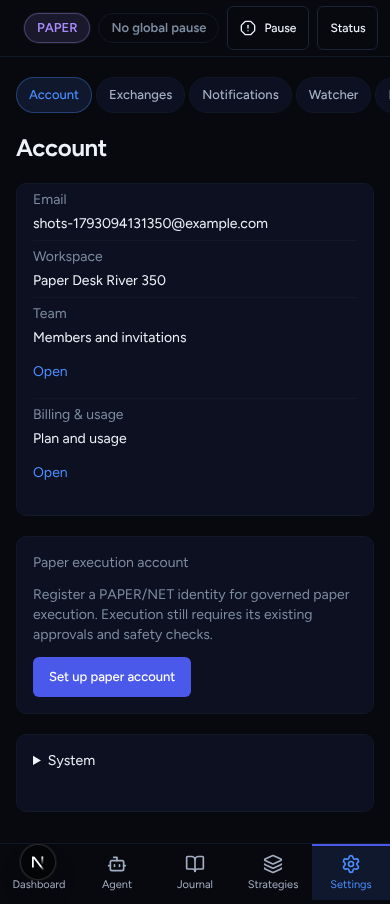
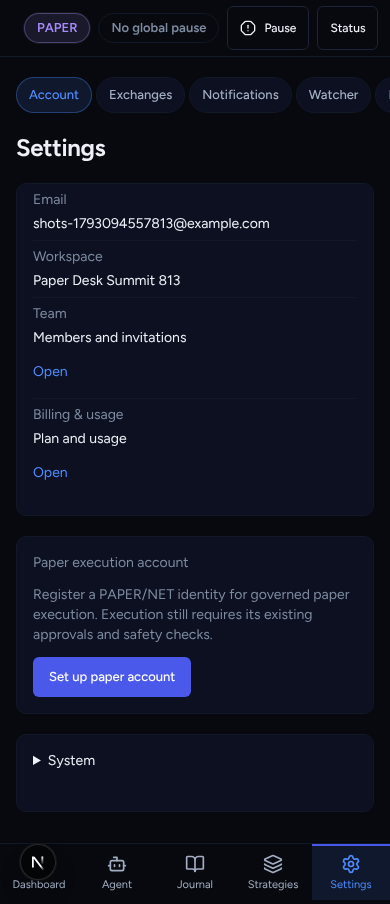
fix(settings): keep the Settings landing h1 matching its sidebar label (UI overhaul B2a)
Every primary destination's h1 matches its nav label (simplified-ui-smoke
checks this). The sub-nav marks the Account section.

Full-Backend: false

Claude-Session: https://claude.ai/code/session_01Vovj7V7QoBrr1tEWoBBSe7

Changed region(s): [[0.2769, 0.2168, 0.6769, 0.3407], [0.0308, 0.1549, 0.2769, 0.1858]]

diff --git a/frontend/src/app/(app)/settings/page.test.tsx b/frontend/src/app/(app)/settings/page.test.tsx
@@ -220,7 +220,8 @@ afterEach(() => {
 
 it("shows the Account section flat, with Team and Billing reachable and no link row", async () => {
   render(<SettingsPage />);
-  expect(screen.getByRole("heading", { name: "Account" })).toBeInTheDocument();
+  // The landing h1 matches the sidebar label; the sub-nav marks Account.
+  expect(screen.getByRole("heading", { level: 1, name: "Settings" })).toBeInTheDocument();
   expect(screen.getByText("owner@example.com")).toBeVisible();
   expect(screen.getByText("Alpha Org")).toBeVisible();
   expect(screen.getByRole("link", { name: "Team" })).toHaveAttribute("href", "/settings/team");

diff --git a/frontend/src/app/(app)/settings/page.tsx b/frontend/src/app/(app)/settings/page.tsx
@@ -47,7 +47,7 @@ function AccountSettings() {
   );
   return (
     <div className="page-sections [&_input:not([type=checkbox])]:text-base [&_select]:text-base lg:[&_input:not([type=checkbox])]:text-sm lg:[&_select]:text-sm" data-testid="settings-workspace">
-      <PageHeader title="Account" />
+      <PageHeader title="Settings" />
       <Card>
         <CardContent className="divide-y divide-border-subtle">
           <Row label="Email" value={user?.email ?? "Unavailable"} />

diff --git a/docs/agent-reports/ui-overhaul-b2a-settings-subnav.md b/docs/agent-reports/ui-overhaul-b2a-settings-subnav.md
@@ -17,7 +17,9 @@ Scope: frontend only. No backend, API schema, workflow or lockfile changes.
     contains `TelegramPolicyForm`.
   - `/settings/watcher`: watcher status, watchlist slots, coin strategies, worker
     runtime readout.
-- **Account (`/settings`).** The page is flat now: Email, Workspace, Team →,
+- **Account (`/settings`).** The h1 stays "Settings", matching the sidebar label
+  (`e2e/simplified-ui-smoke.spec.ts` checks this for every destination); the sub-nav
+  marks Account. The page is flat now: Email, Workspace, Team →,
   Billing & usage →, email verification, paper account, and a closed "System"
   disclosure. The link row (Exchange connections / Team / Billing / Diagnostics /
   Help) is gone. Each of those is a sub-nav section or a row with an Open link.
@@ -70,6 +72,8 @@ From `frontend/`:
 - `npx playwright test e2e/notification-settings-v2.spec.ts e2e/auth-boundary.spec.ts --project=chromium`
   → 9 passed (mock-mode backend + `next dev`).
 - `npx playwright test e2e/workspace-redesign.spec.ts --project=chromium` → 2 passed.
+- `npx playwright test e2e/simplified-ui-smoke.spec.ts --project=chromium` → 1 passed
+  (after the h1 fix in the second commit).
 - `npx eslint` on the touched files → clean. `npx tsc --noEmit` → clean.
 - Backend: not touched (`Full-Backend: false`).
 
